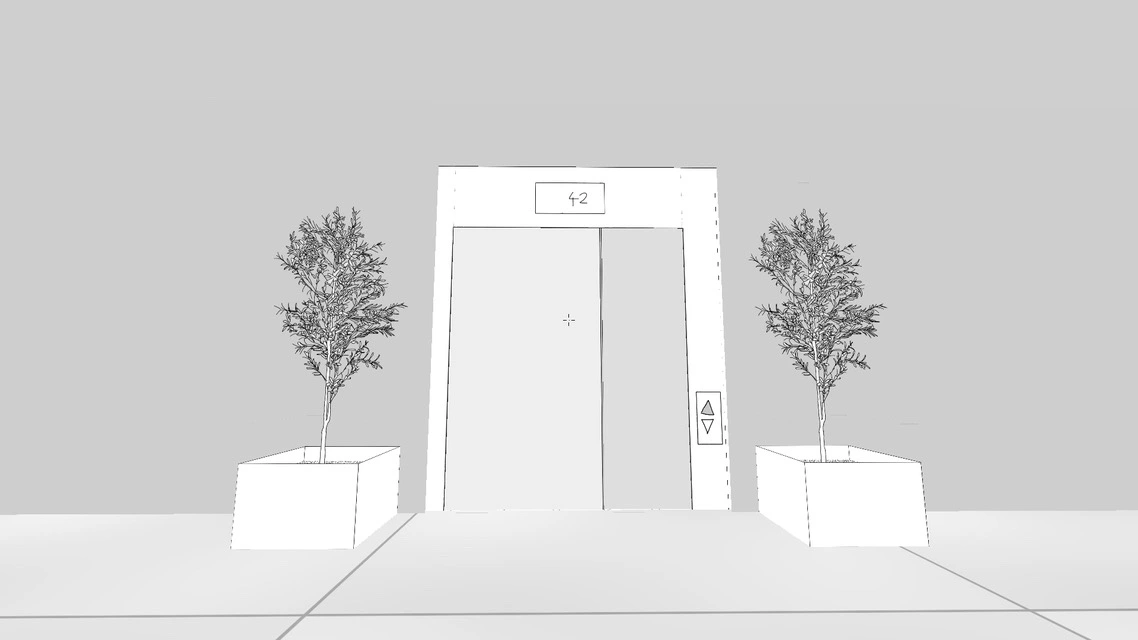
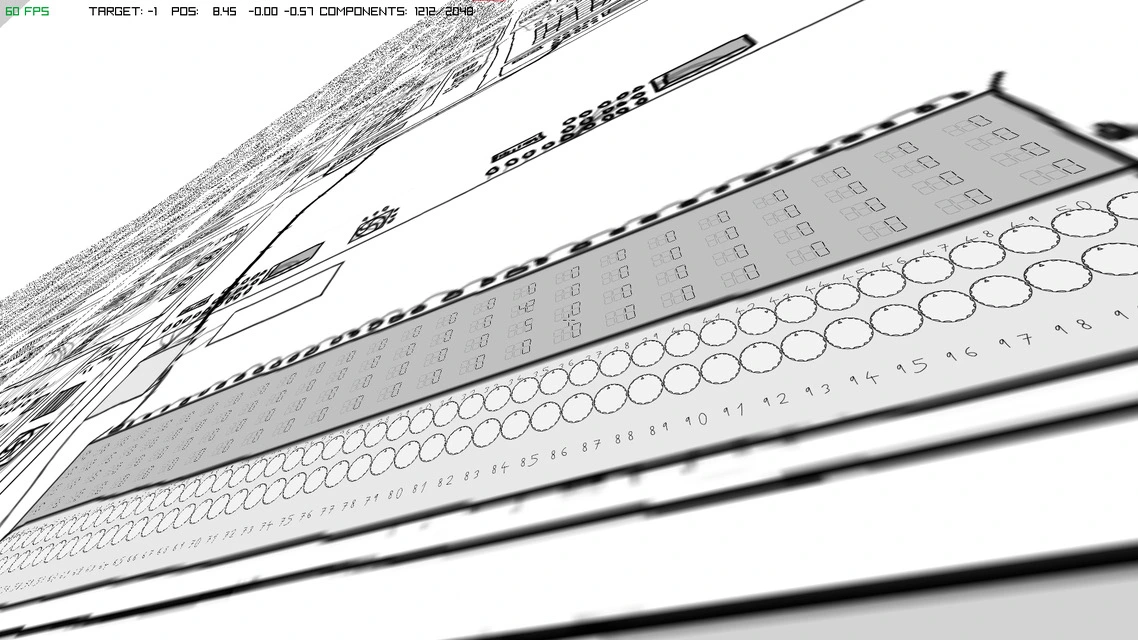
updated #m

diff --git a/content/m.md b/content/m.md
@@ -1,21 +1,24 @@
 ## List
 
-- [vial](https://symphonylabs.cc/products/8e4686ff-6869-4196-92a8-1af995b8af8f) - 70$ -> 60€ LTC
-- [syringes](https://www.medicross.sk/striekacka-diconex-tuberkulin-1ml-3-dielna-luer-steril-100ks/) - 6€
-- [injection needle](https://www.medicross.sk/ihla-bd-microlance-25g-0-5x16mm-oranzova-100ks/) - 4€
-- [drawing needle](https://www.medicross.sk/ihla-bd-microlance-23g-0-6x25mm-modra-100ks/) - 5€
-- [sterile gauze (10bal)](https://www.medicross.sk/sterilkompres-sterilne-krytie-z-gazy-7-5x7-5cm-a10ks/) - 10bal => 4€
-- [prep pad](https://www.medicross.sk/alcohol-prep-pad-sterilny-tampon-s-alkoholom-65x30mm-100-ks-50-x-2-ks/) - 2€
-- [sharp container](https://www.medicross.sk/kontajner-na-pouzite-ihly-0-375l/) - 1€
-- [sand hanitizer](https://www.medicross.sk/vitasept-e75-gel-500-ml/) - 7€
+- [vial](https://astrovials.com/en/shop/estradiol-enanthate-mct) - 50€ + ~10€ shipping in BTC
+- [syringes with needle](https://www.medplus.sk/tuberkulinova-injekcna-striekacka-kd-ject-so-snimatelnou-ihlou-25g-0-5-x-16-mm-1-ml-100-ks/) - 11€
+- [sterile gauze](https://www.medplus.sk/kompresy-z-gazy-sterilne-5-x-5-cm-8vr-100-x-2-ks/) - 4€
+- [prep pad](https://www.medplus.sk/tampon-alkoholovy-pred-vpichom-injekcie-ap2584-100ks/) - 2€
+- [sharp container](https://www.medplus.sk/yannick-box-2-l/) - 2€
+- [sand hanitizer](https://www.medplus.sk/septoderm-gel-500-ml/) - 8€
 
 ## Cost
 
-60€ LTC + 29€ + shipping = 100€
+60€ LTC + 26€ + 5€ shipping = ~100€
+
+## Dosage
+
+4mg	0.1mL every 7 days subQ
 
 ## References
 
 - [valerie.vg](https://valerie.vg/)
-- [MtF HRT: Ultimate DIY](https://groups.io/g/MTFHRT/wiki/29602)
-- [medicross](https://medicross.sk)
+- [medplus](https://www.medplus.sk)
+- [Start with 4mg estradiol enanthate weekly, and test at one to three months](https://startwith4mgestradiolenanthateweeklyandtestatonetothreemonths.com/)
 - [How to Give a Subcutaneous Injection video from NewYork-Presbyterian (NYP)](https://www.nyp.org/healthlibrary/multimedia/how-to-give-a-subcutaneous-injection?lancode=)
+- [A Practical Guide To Feminizing Hrt](https://pghrt.diy/)

diff --git a/content/rants.md b/content/rants.md
@@ -10,10 +10,10 @@ Well it fukcing didnt because when we were on the train back home i got a notifi
 that they BANNED my account for being UNDER 13 (I AM NOT UNDER 13 BTW). So i went and filled an appeal.
 After like 10 minutes they responsed that they checked again and were sure i am under 13 (i uploaded my GOVERMENT ID
 to them and they still decided not). So i now dont have an instagram account and i lost contact with like 50 people because 
-instagram is the only thing i had of them.
-great
-i filled a CEAH case and im waiting
-to all the people that check here i love you i didnt forget of you and i miss you
+instagram is the only thing i had of them.  
+great  
+i filled a CEAH case and im waiting  
+to all the people that check here i love you i didnt forget of you and i miss you  
 <3
 
 ## cedarwood state - 9.9.2026

diff --git a/content/devlog.md b/content/devlog.md
@@ -2,13 +2,18 @@
 
 Hiii this is my devlog of my game currently called *"Elevator"* (can change its just a placeholder tbh)  
 
+##
+
+![devlog6.webp](../images/devlog6.webp)
+[video](https://drive.google.com/file/d/1kZuvA8B23FAqv6ICvZSmi8Dm90Etxbcd/view?usp=sharing)
+
+## 
+
+![devlog5.webp](../images/devlog5.webp)
+
 ## 
 
 ![devlog4.webp](../images/devlog4.webp)
-
-## 
-
-![devlog3.webp](../images/devlog3.webp)
 
 the computer input panel, with 100 "knobs" and 100 coresponding s7 displays  
 wierd perspective because why not

diff --git a/content/links.md b/content/links.md
@@ -42,4 +42,4 @@ Not necessarelly sorted <3
 - [Devlog](#devlog)
 - [Stickers](./stickers/)
 - [valerie.vg](https://valerie.vg)
-- [My instagram <3](https://instagram.com/vpunpckldq)
+- [~~My instagram <3~~](https://instagram.com/vpunpckldq)
